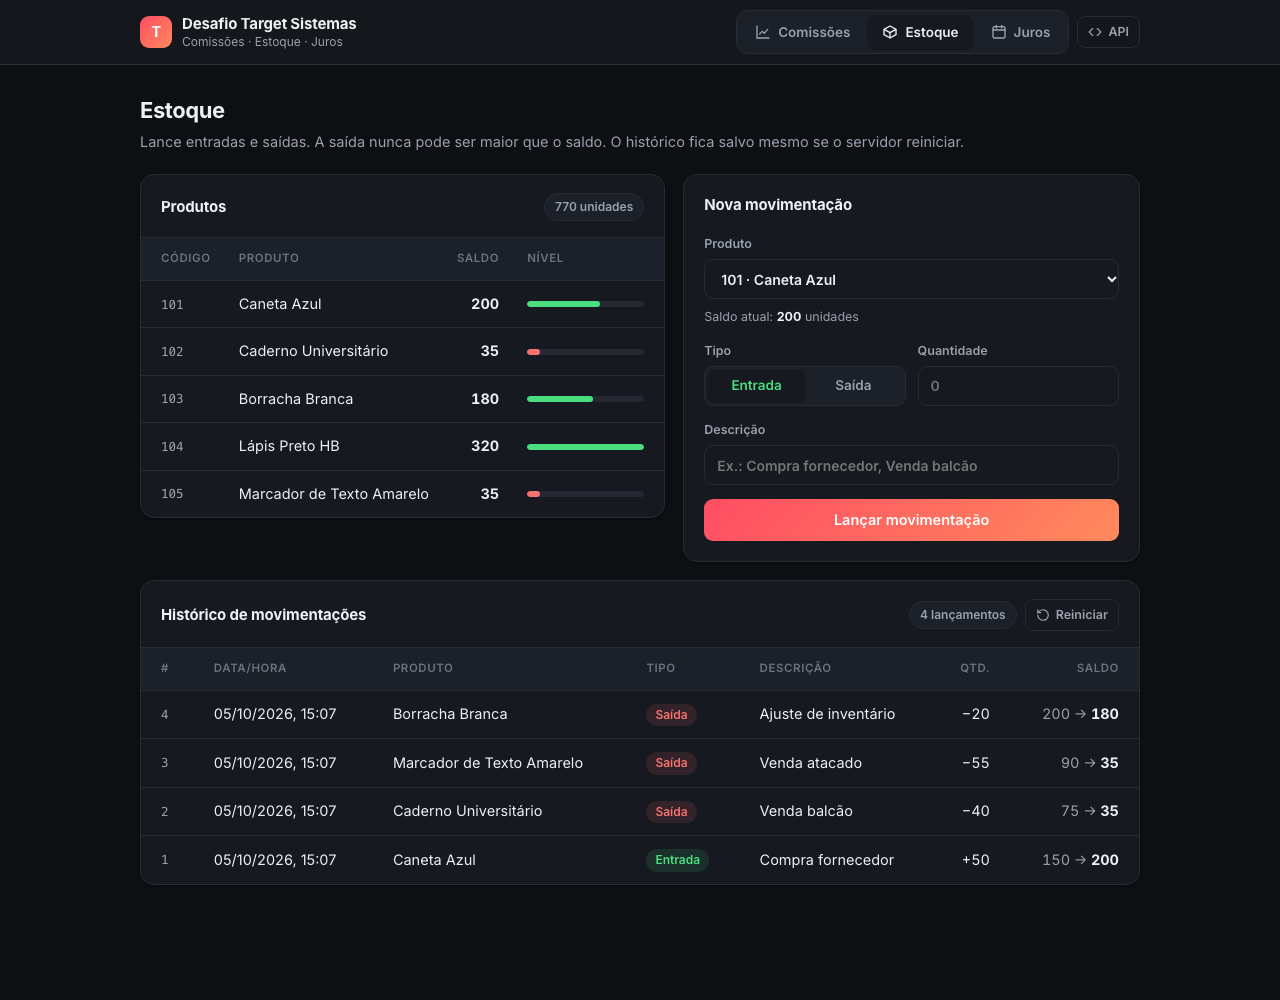
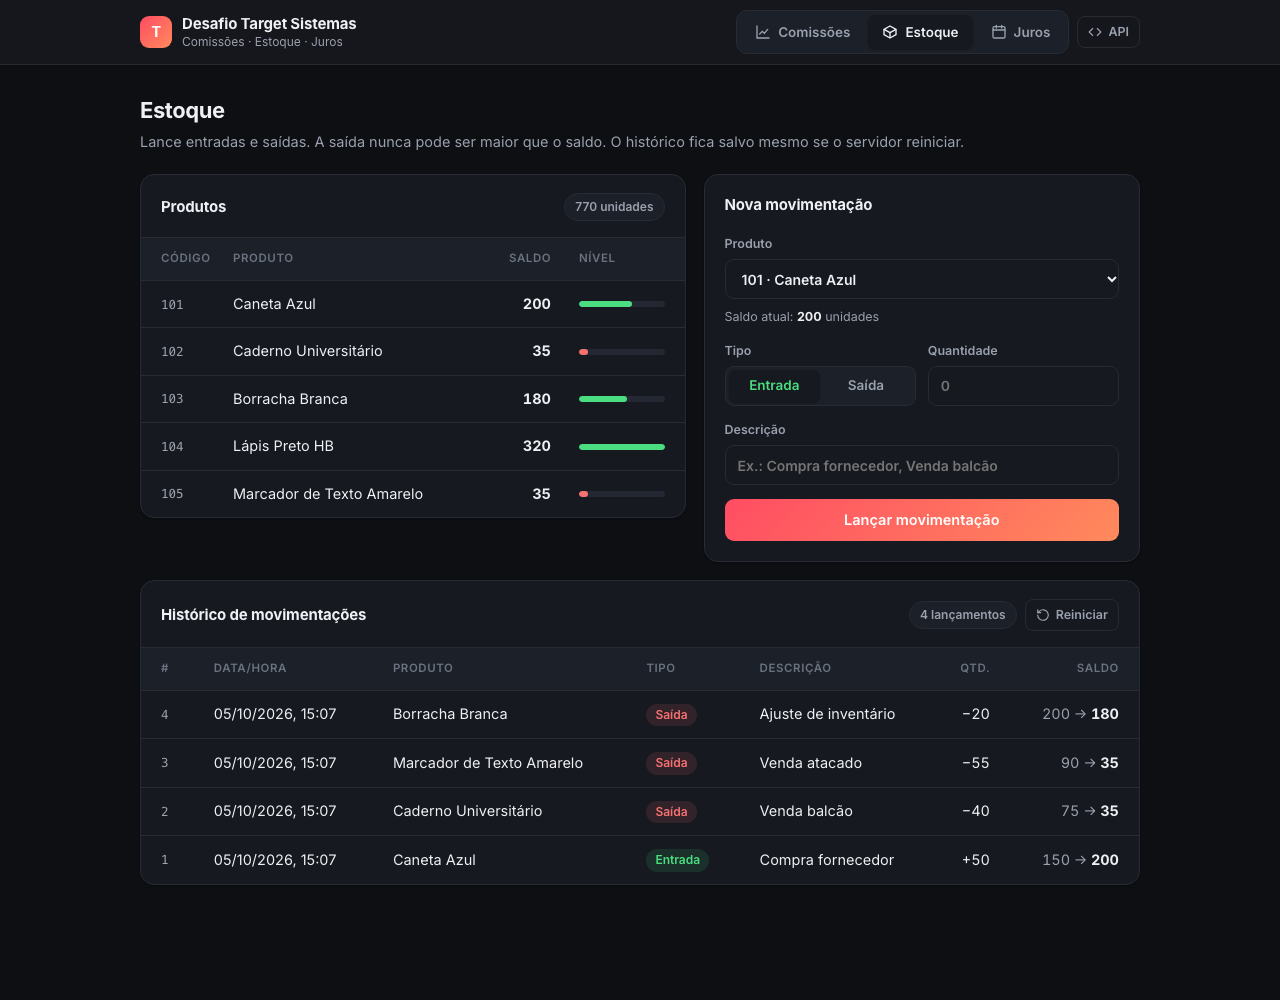
Ajusta layout da interface web
- Vendas de cada vendedor aparecem como linhas do próprio ranking,
  alinhadas às colunas de faixa, valor e comissão
- Colunas de largura fixa na tabela de produtos (barra de nível não
  vaza mais do card)
- Atualiza as imagens do README

diff --git a/src/Desafio.Web/wwwroot/index.html b/src/Desafio.Web/wwwroot/index.html
@@ -104,7 +104,7 @@
     .card-head { display: flex; align-items: center; justify-content: space-between; gap: 12px; padding: 18px 20px 0; flex-wrap: wrap; }
     .card-head h2 { font-size: 15px; margin: 0; letter-spacing: -.01em; }
     .card-body { padding: 18px 20px 20px; }
-    .grid-2 { display: grid; grid-template-columns: 1.15fr 1fr; gap: 18px; align-items: start; }
+    .grid-2 { display: grid; grid-template-columns: 1.25fr 1fr; gap: 18px; align-items: start; }
     .grid-2 > .card { margin-bottom: 0; }
     @media (max-width: 860px) { .grid-2 { grid-template-columns: 1fr; } }
 
@@ -220,18 +220,23 @@
     tr.vendedor { cursor: pointer; }
     tr.vendedor .chev { width: 16px; height: 16px; color: var(--faint); transition: transform .2s; flex: none; }
     tr.vendedor.aberto .chev { transform: rotate(90deg); }
-    tr.detalhe td { padding: 0; background: var(--surface-2); }
-    tr.detalhe:hover td { background: var(--surface-2); }
-    .det { padding: 6px 20px 16px 74px; }
-    .det table { width: auto; min-width: 380px; }
-    .det table th { background: none; border-top: 0; padding: 8px 12px; }
-    .det table td { padding: 7px 12px; }
-    .det tbody tr:hover td { background: none; }
-    .det .chip { padding: 2px 8px; font-size: 11.5px; }
+    tr.venda td {
+      background: var(--surface-2); color: var(--muted); font-size: 13.5px;
+      padding-top: 7px; padding-bottom: 7px; border-top: 0 !important;
+    }
+    tbody tr.venda:hover td { background: var(--surface-2); }
+    tr.venda.primeira td { padding-top: 14px; box-shadow: inset 0 1px 0 var(--border); }
+    tr.venda.ultima td { padding-bottom: 14px; }
+    tr.venda .rotulo { padding-left: 86px; }
+    tr.venda .valor { color: var(--text); }
+    tr.venda .chip { padding: 1px 8px; font-size: 11.5px; }
+    tr.vendedor.aberto td { background: var(--surface-2); }
     .muted { color: var(--muted); }
     .grid-2 th, .grid-2 td { padding-left: 14px; padding-right: 14px; }
     .grid-2 th:first-child, .grid-2 td:first-child { padding-left: 20px; }
-    .grid-2 th:last-child, .grid-2 td:last-child { padding-right: 20px; width: 30%; }
+    .grid-2 th:last-child, .grid-2 td:last-child { padding-right: 20px; }
+    table.fixa { table-layout: fixed; }
+    table.fixa td:nth-child(2) { white-space: normal; }
 
     .actions { display: flex; align-items: center; gap: 8px; }
     .ghost {
@@ -244,7 +249,7 @@
     .ghost svg { width: 14px; height: 14px; }
 
     @media (max-width: 640px) {
-      .det { padding-left: 20px; }
+      tr.venda .rotulo { padding-left: 44px; }
       header .wrap { height: auto; padding-top: 12px; padding-bottom: 12px; flex-direction: column; align-items: stretch; }
       nav button { flex: 1; justify-content: center; }
       .brand small { display: none; }
@@ -322,7 +327,8 @@
           <div class="card-head"><h2>Produtos</h2><span class="chip" id="total-itens"></span></div>
           <div class="card-body" style="padding: 16px 0 0">
             <div class="scroll">
-              <table>
+              <table class="fixa">
+                <colgroup><col style="width:78px"><col><col style="width:70px"><col style="width:22%"></colgroup>
                 <thead><tr><th>Código</th><th>Produto</th><th class="num">Saldo</th><th>Nível</th></tr></thead>
                 <tbody id="tb-produtos"></tbody>
               </table>
@@ -450,24 +456,28 @@
       const faixa = p => `<span class="chip c${Math.round(p * 100)}"><i></i>${pct(p)}</span>`;
       $('tb-comissoes').innerHTML = vendedores.map((v, i) => {
         const part = v.totalComissao / total.totalComissao;
-        const linhas = v.vendas.map(x => `
-          <tr><td class="num">${moeda(x.valor)}</td><td>${faixa(x.percentual)}</td><td class="num">${moeda(x.comissao)}</td></tr>`).join('');
+        const n = v.vendas.length;
+        const linhas = v.vendas.map((x, j) => `
+          <tr class="venda${j === 0 ? ' primeira' : ''}${j === n - 1 ? ' ultima' : ''}" data-v="${i}" hidden>
+            <td class="rotulo">Venda ${j + 1}</td>
+            <td class="num">${faixa(x.percentual)}</td>
+            <td class="num valor">${moeda(x.valor)}</td>
+            <td class="num valor">${moeda(x.comissao)}</td>
+            <td></td>
+          </tr>`).join('');
         return `<tr class="vendedor" data-i="${i}" tabindex="0" aria-expanded="false">
           <td><div class="who">${chev}<span class="rank">${i + 1}</span><span class="avatar">${iniciais(v.vendedor)}</span>${esc(v.vendedor)}</div></td>
           <td class="num">${v.quantidadeVendas}</td>
           <td class="num">${moeda(v.totalVendido)}</td>
           <td class="num"><strong>${moeda(v.totalComissao)}</strong></td>
           <td><div class="share"><div class="bar"><i style="width:${(part * 100).toFixed(1)}%"></i></div><small>${pct(part)}</small></div></td>
-        </tr>
-        <tr class="detalhe" hidden><td colspan="5"><div class="det">
-          <table><thead><tr><th class="num">Valor da venda</th><th>Faixa</th><th class="num">Comissão</th></tr></thead><tbody>${linhas}</tbody></table>
-        </div></td></tr>`;
+        </tr>${linhas}`;
       }).join('');
       document.querySelectorAll('tr.vendedor').forEach(tr => {
         const alternar = () => {
           const aberto = tr.classList.toggle('aberto');
           tr.setAttribute('aria-expanded', aberto);
-          tr.nextElementSibling.hidden = !aberto;
+          document.querySelectorAll(`tr.venda[data-v="${tr.dataset.i}"]`).forEach(l => l.hidden = !aberto);
         };
         tr.addEventListener('click', alternar);
         tr.addEventListener('keydown', e => { if (e.key === 'Enter' || e.key === ' ') { e.preventDefault(); alternar(); } });
@@ -482,7 +492,7 @@
       // Escala relativa ao maior saldo, só para visualização.
       const max = Math.max(...produtos.map(p => p.estoque), 1);
       const cls = qtd < 50 ? 'low' : qtd < 100 ? 'warn' : 'ok';
-      return `<div class="share" style="min-width:64px"><div class="bar ${cls}"><i style="width:${(qtd / max * 100).toFixed(1)}%"></i></div></div>`;
+      return `<div class="share" style="min-width:0"><div class="bar ${cls}"><i style="width:${(qtd / max * 100).toFixed(1)}%"></i></div></div>`;
     }
 
     function atualizarSaldo() {
